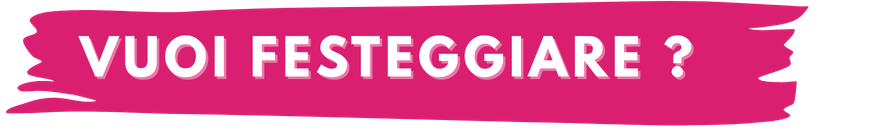
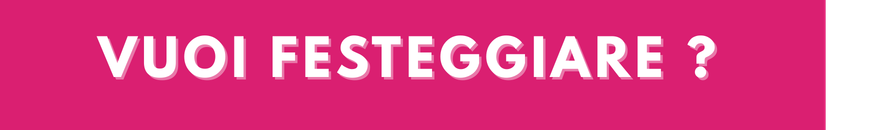
Aggiungi stili per il layout mobile del componente hero e aggiorna l'immagine di sfondo

diff --git a/app/components/hero.css b/app/components/hero.css
@@ -251,3 +251,33 @@ html:not(.pn-nav-scrolled) .hero-cta{
 .hero-inner{
   min-height: 100svh;
 }
+/* =========================================
+   MOBILE HERO: re-center + no offset testo
+   Incolla in fondo a hero.css
+   ========================================= */
+
+@media (max-width: 900px){
+  /* 1) inquadra più al centro (non troppo a destra) */
+  .hero{
+    background-position: 60% 32% !important;
+  }
+
+  /* 2) su mobile NON vogliamo offset a sinistra del testo */
+  .hero-title,
+  .hero-subtitle{
+    padding-left: 0 !important;
+  }
+}
+
+@media (max-width: 560px){
+  /* piccoli schermi: ancora più centrato + meno crop */
+  .hero{
+    background-position: 58% 30% !important;
+    background-size: 108% auto !important;
+  }
+}
+@media (max-width: 900px){
+  .hero-cta{
+    padding-left: 0 !important;
+  }
+}
